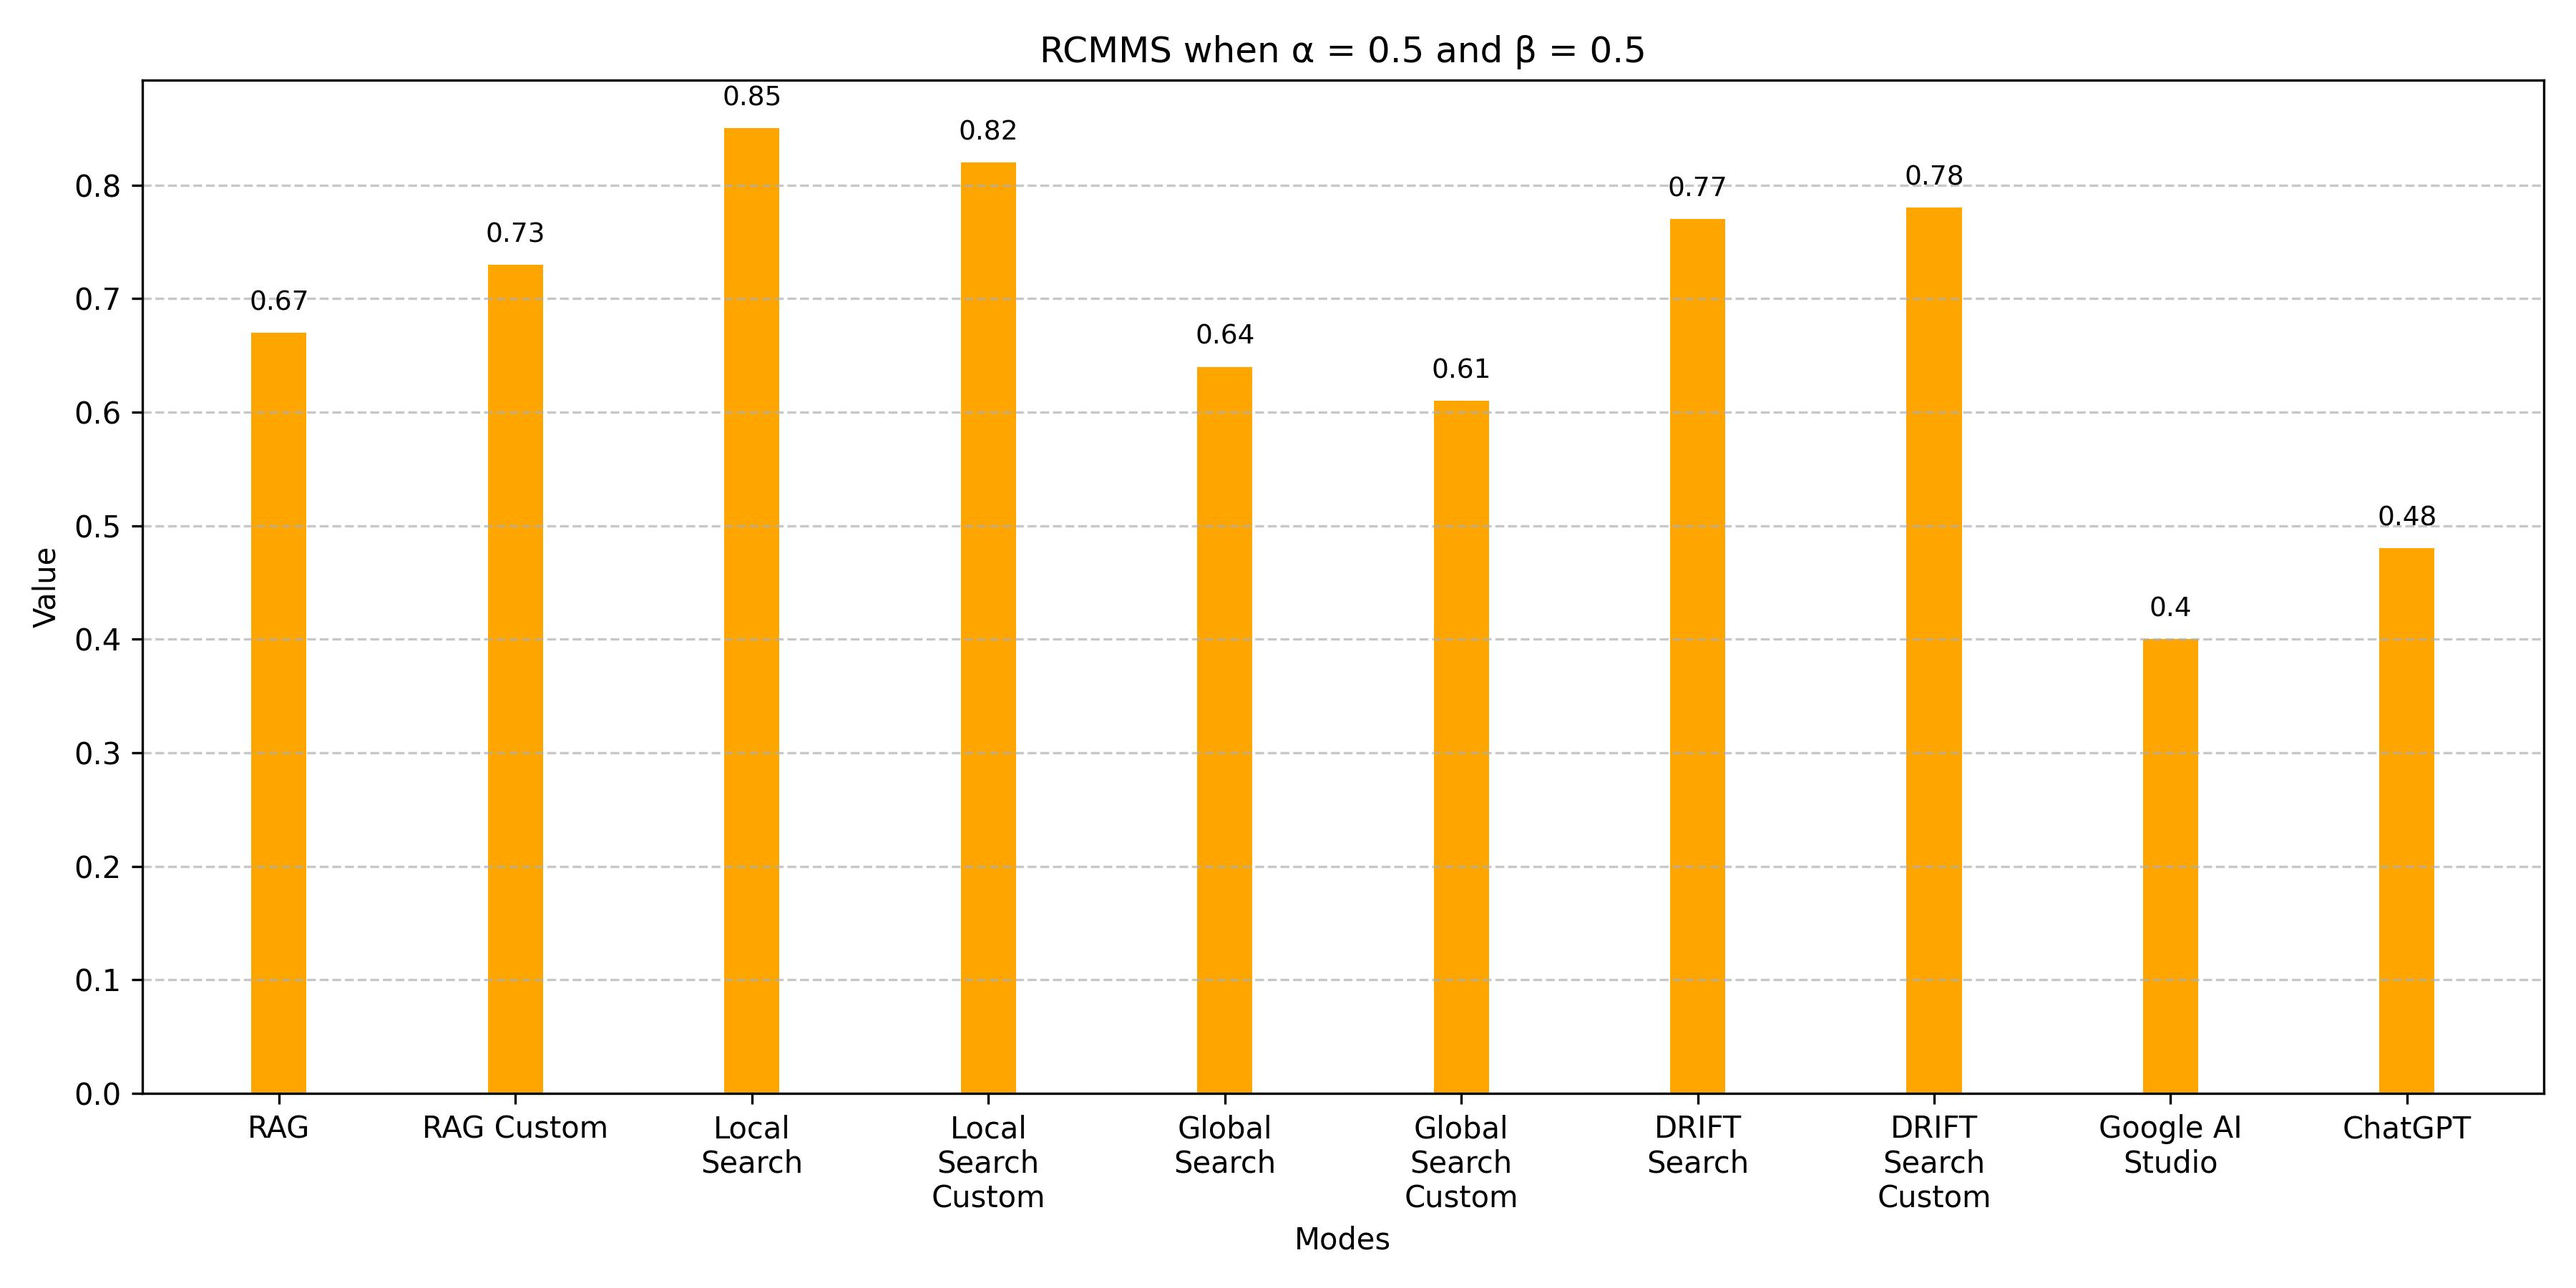
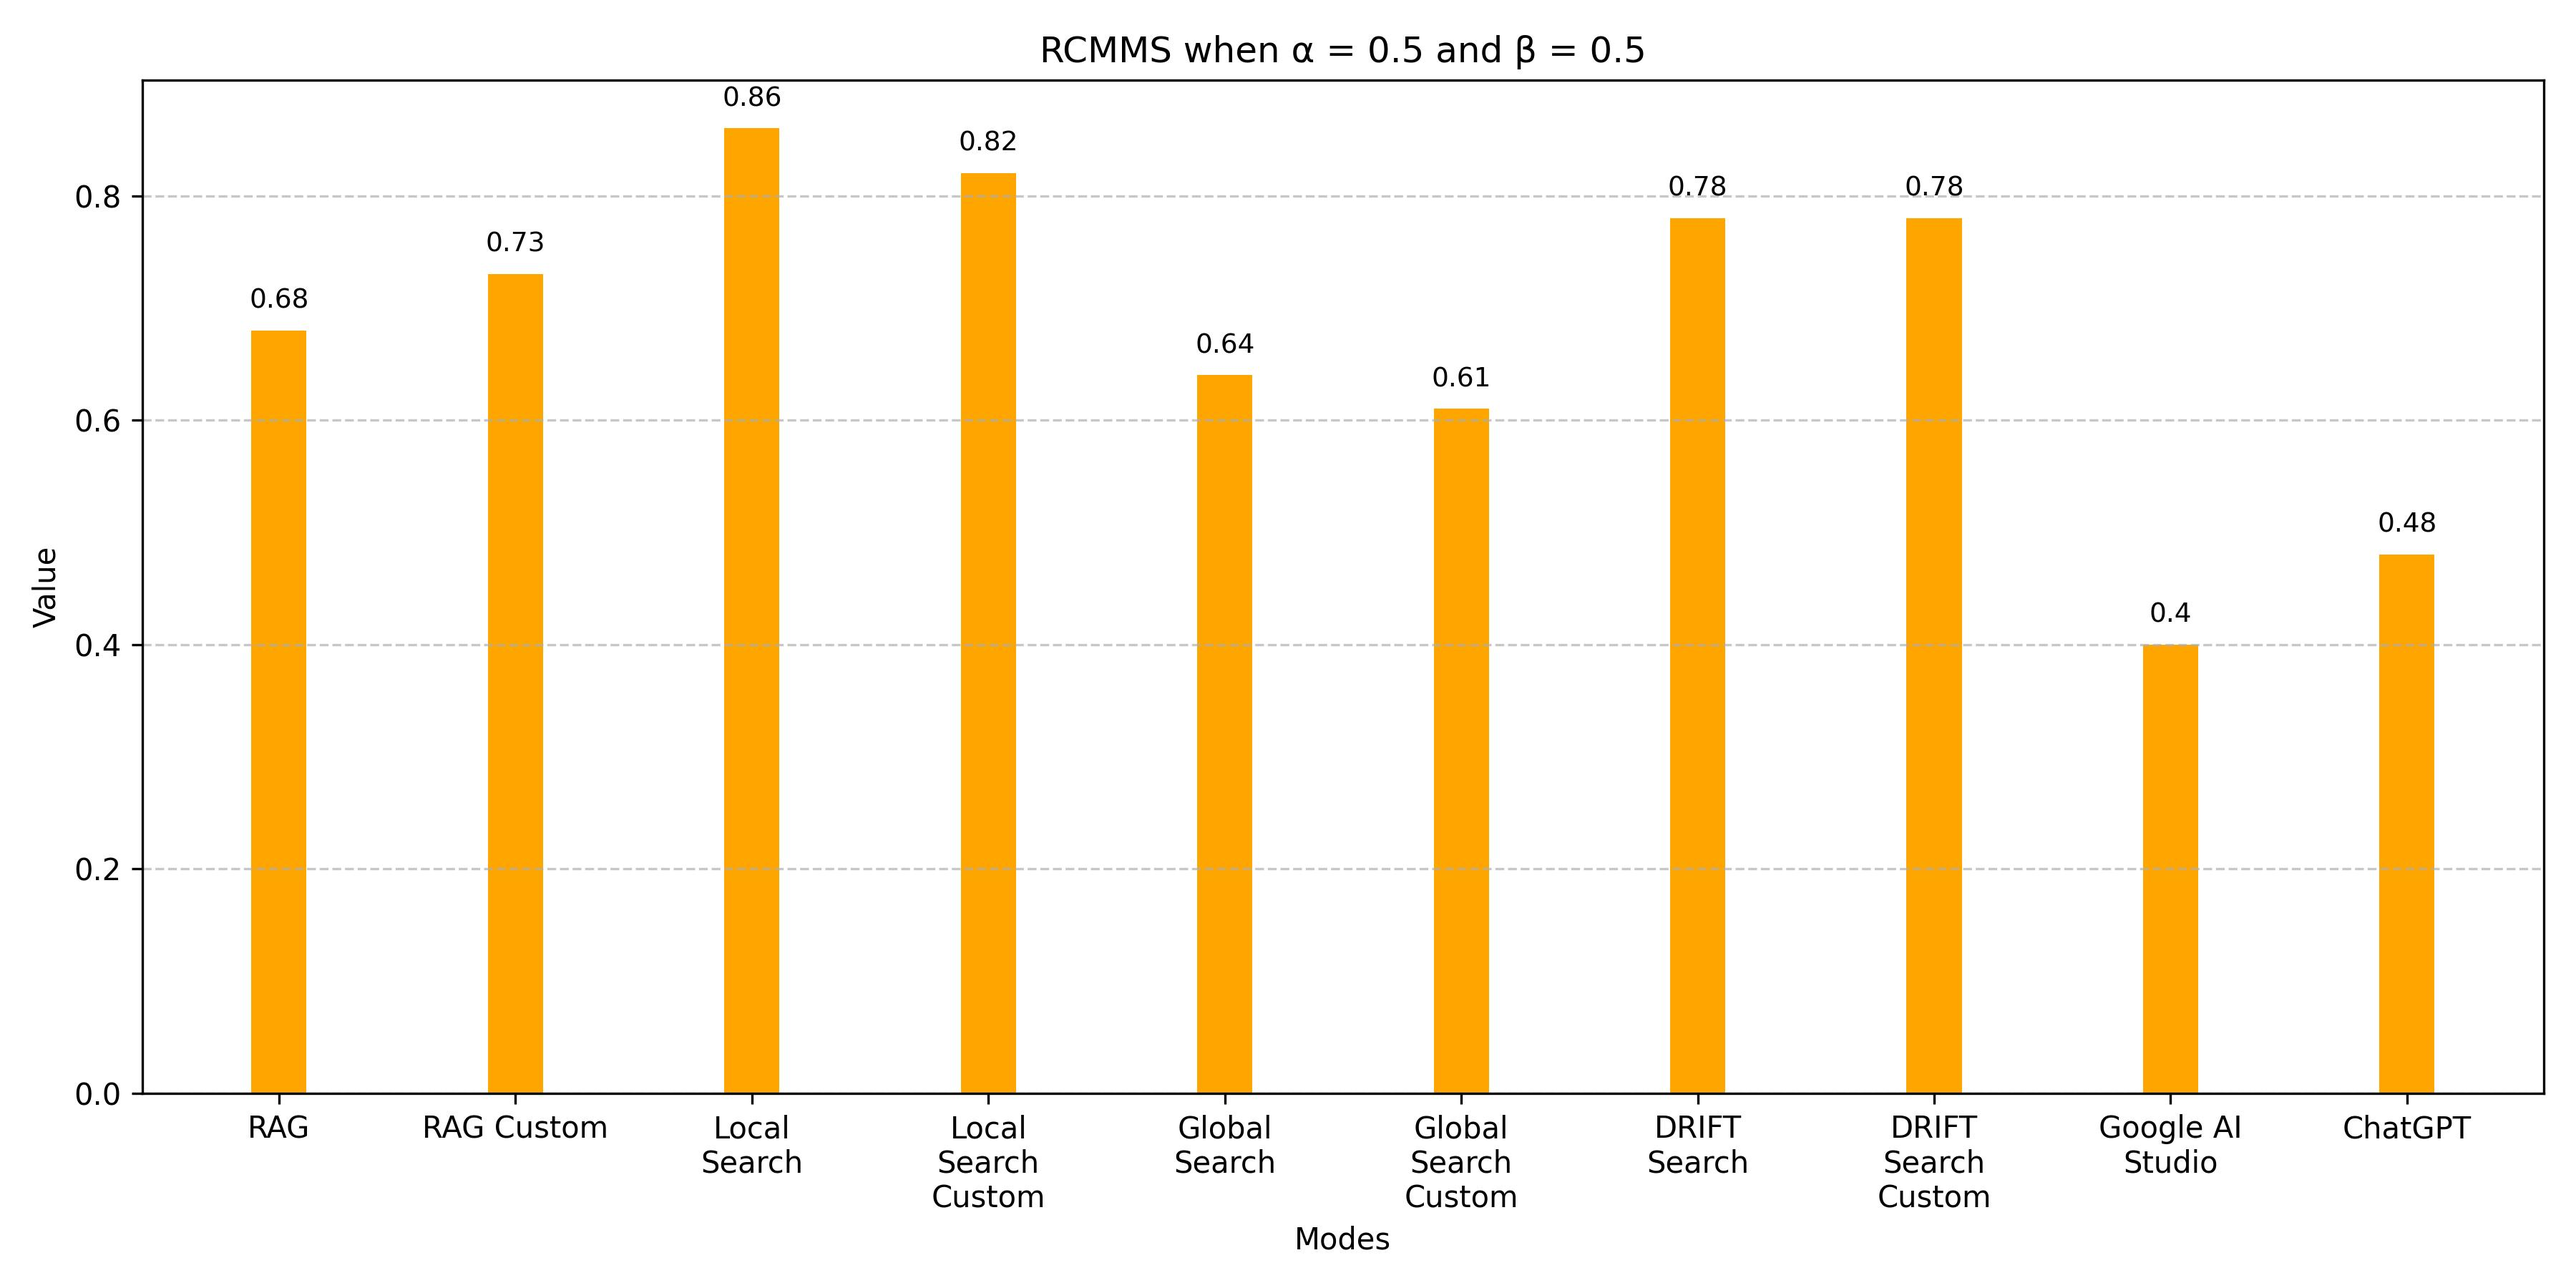
3

diff --git a/evaluate/visualize.py b/evaluate/visualize.py
@@ -1,6 +1,7 @@
 import matplotlib.pyplot as plt
 import numpy as np
 import pandas as pd
+import textwrap
 from constants.constants import MODES, FILE_NAMES,RAGAS_METRICS
 def visualize_lines_char(modes:list[str], datas:list[list[int]],metrics:str, image_name:str):
     """
@@ -35,9 +36,7 @@ def visualize_columns_char(total_datas: list, correct_datas: list, modes: list[s
         correct_datas (list): List of correct data values.
         modes (list[str]): List of modes to visualize.
     """
-    import matplotlib.pyplot as plt
-    import numpy as np
-    import textwrap
+
 
     num_bars = len(total_datas)
     spacing = 1.5
@@ -64,7 +63,7 @@ def visualize_columns_char(total_datas: list, correct_datas: list, modes: list[s
     plt.tight_layout()
     plt.savefig('results/images/total_correct_info.png', dpi=300)
 
-def visualize_RCMMS_03_07():
+def visualize_RCMMS_03_07(data):
     """
     Visualizes the columns for each mode with the given data.
 
@@ -73,10 +72,6 @@ def visualize_RCMMS_03_07():
         correct_datas (list): List of correct data values.
         modes (list[str]): List of modes to visualize.
     """
-    import matplotlib.pyplot as plt
-    import numpy as np
-    import textwrap
-    data=[0.61,0.68,0.91,0.81,0.61,0.55,0.83,0.77,0.32,0.38]
     num_bars = len(data)
     modes=["RAG","RAG Custom","Local Search","Local Search Custom","Global Search","Global Search Custom","DRIFT Search","DRIFT Search Custom","Google AI Studio","ChatGPT"]
     spacing = 1.5
@@ -99,7 +94,7 @@ def visualize_RCMMS_03_07():
     plt.grid(axis='y', linestyle='--', alpha=0.7)
     plt.tight_layout()
     plt.savefig('results/images/RCMMS_03_07.jpg', dpi=300)
-def visualize_RCMMS_05_05():
+def visualize_RCMMS_05_05(data):
     """
     Visualizes the columns for each mode with the given data.
 
@@ -108,10 +103,7 @@ def visualize_RCMMS_05_05():
         correct_datas (list): List of correct data values.
         modes (list[str]): List of modes to visualize.
     """
-    import matplotlib.pyplot as plt
-    import numpy as np
-    import textwrap
-    data=[0.67,0.73,0.85,0.82,0.64,0.61,0.77,0.78,0.40,0.48]
+
     num_bars = len(data)
     modes=["RAG","RAG Custom","Local Search","Local Search Custom","Global Search","Global Search Custom","DRIFT Search","DRIFT Search Custom","Google AI Studio","ChatGPT"]
     spacing = 1.5
@@ -134,7 +126,7 @@ def visualize_RCMMS_05_05():
     plt.grid(axis='y', linestyle='--', alpha=0.7)
     plt.tight_layout()
     plt.savefig('results/images/RCMMS_05_05.jpg', dpi=300)
-def visualize_RCMMS_07_03():
+def visualize_RCMMS_07_03(data):
     """
     Visualizes the columns for each mode with the given data.
 
@@ -143,10 +135,6 @@ def visualize_RCMMS_07_03():
         correct_datas (list): List of correct data values.
         modes (list[str]): List of modes to visualize.
     """
-    import matplotlib.pyplot as plt
-    import numpy as np
-    import textwrap
-    data=[0.74,0.78,0.79,0.83,0.66,0.67,0.72,0.79,0.49,0.58]
     num_bars = len(data)
     modes=["RAG","RAG Custom","Local Search","Local Search Custom","Global Search","Global Search Custom","DRIFT Search","DRIFT Search Custom","Google AI Studio","ChatGPT"]
     spacing = 1.5
@@ -198,8 +186,7 @@ def visualize_ragas():
             modes= MODES[i*2:i*2+2]
             datas_subset = [datas[j] for j in range(i*2, i*2+2)]
             visualize_lines_char(modes, datas_subset, metrics, f"{metrics}_{files[0]}_{files[1]}")
-    print("Visualization completed and saved in results/images/")
-def visualize_no_rag():
+def visualize_RCS():
     
     file_name= "results/data_total_info.xlsx"
     df = pd.read_excel(file_name)
@@ -212,10 +199,33 @@ def visualize_no_rag():
     for mode in MODES:
         correct.append(df[mode].sum())
     visualize_columns_char(total, correct, MODES)
+def visualize_RCMMS():
+    """
+    Visualizes the RCMMS metrics for each mode and saves the images.
+    """
+    file_name = "results/data_total_info.xlsx"
+    df = pd.read_excel(file_name)
+    total = [df[mode].sum() for mode in MODES]
+
+    file_name = "results/data_correct_info.xlsx"
+    df = pd.read_excel(file_name)
+    correct = [df[mode].sum() for mode in MODES]
+
+    max_correct = max(correct)
+    precision = [round(correct[i] / total[i], 2) if total[i] != 0 else 0 for i in range(len(MODES))]
+    coverage = [round(correct[i] / max_correct, 2) if max_correct != 0 else 0 for i in range(len(MODES))]
+
+    score_03_07 = [round(0.3 * p + 0.7 * c, 2) for p, c in zip(precision, coverage)]
+    visualize_RCMMS_03_07(score_03_07)
+
+    score_05_05 = [round(0.5 * p + 0.5 * c, 2) for p, c in zip(precision, coverage)]
+    visualize_RCMMS_05_05(score_05_05)
+
+    score_07_03 = [round(0.7 * p + 0.3 * c, 2) for p, c in zip(precision, coverage)]
+    visualize_RCMMS_07_03(score_07_03)
+    print("Visualization completed and saved in results/images/RCMMS_*.jpg")
 if __name__ == "__main__":
     visualize_ragas()
-    visualize_no_rag()
-    visualize_RCMMS_03_07()
-    visualize_RCMMS_05_05()
-    visualize_RCMMS_07_03()
+    visualize_RCS()
+    visualize_RCMMS()
     print("Visualization completed and saved in results/images/")
